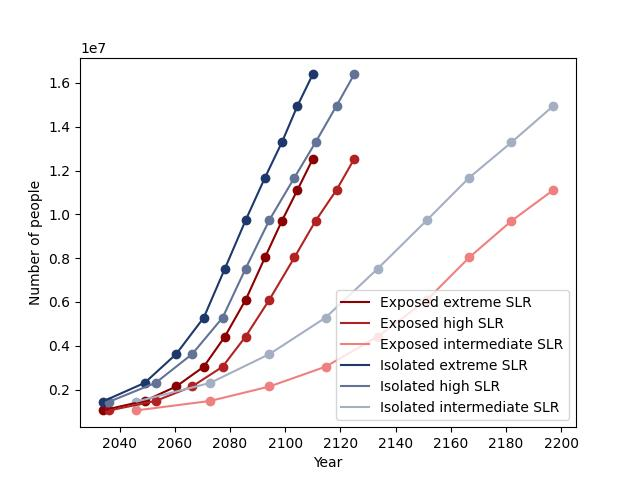
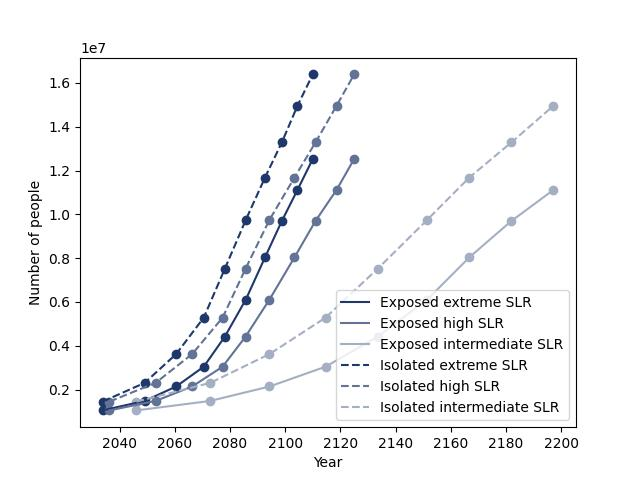
time plot updated with dashed lines

diff --git a/src/plot_time.py b/src/plot_time.py
@@ -63,18 +63,18 @@ inter_iso = inter_df[inter_df['type']=='isolated']
 # plot figure
 fig, ax = plt.subplots()
 # ax2 = ax.twinx()
-ax.plot(extr_exp['year'], extr_exp['U7B001'], color='darkred', label='Exposed extreme SLR')
-ax.scatter(extr_exp['year'], extr_exp['U7B001'], color='darkred')
-ax.plot(high_exp['year'], high_exp['U7B001'], color='firebrick', label='Exposed high SLR')
-ax.scatter(high_exp['year'], high_exp['U7B001'], color='firebrick')
-ax.plot(inter_exp['year'], inter_exp['U7B001'], color='lightcoral', label='Exposed intermediate SLR')
-ax.scatter(inter_exp['year'], inter_exp['U7B001'], color='lightcoral')
+ax.plot(extr_exp['year'], extr_exp['U7B001'], color='#1f386b', label='Exposed extreme SLR')
+ax.scatter(extr_exp['year'], extr_exp['U7B001'], color='#1f386b')
+ax.plot(high_exp['year'], high_exp['U7B001'], color='#627397', label='Exposed high SLR')
+ax.scatter(high_exp['year'], high_exp['U7B001'], color='#627397')
+ax.plot(inter_exp['year'], inter_exp['U7B001'], color='#a5afc3', label='Exposed intermediate SLR')
+ax.scatter(inter_exp['year'], inter_exp['U7B001'], color='#a5afc3')
 
-ax.plot(extr_iso['year'], extr_iso['U7B001'], color='#1f386b', label='Isolated extreme SLR')
+ax.plot(extr_iso['year'], extr_iso['U7B001'], color='#1f386b', label='Isolated extreme SLR', linestyle='--')
 ax.scatter(extr_iso['year'], extr_iso['U7B001'], color='#1f386b')
-ax.plot(high_iso['year'], high_iso['U7B001'], color='#627397', label='Isolated high SLR')
+ax.plot(high_iso['year'], high_iso['U7B001'], color='#627397', label='Isolated high SLR', linestyle='--')
 ax.scatter(high_iso['year'], high_iso['U7B001'], color='#627397')
-ax.plot(inter_iso['year'], inter_iso['U7B001'], color='#a5afc3', label='Isolated intermediate SLR')
+ax.plot(inter_iso['year'], inter_iso['U7B001'], color='#a5afc3', label='Isolated intermediate SLR', linestyle='--')
 ax.scatter(inter_iso['year'], inter_iso['U7B001'], color='#a5afc3')
 
 plt.ylabel('Number of people')
